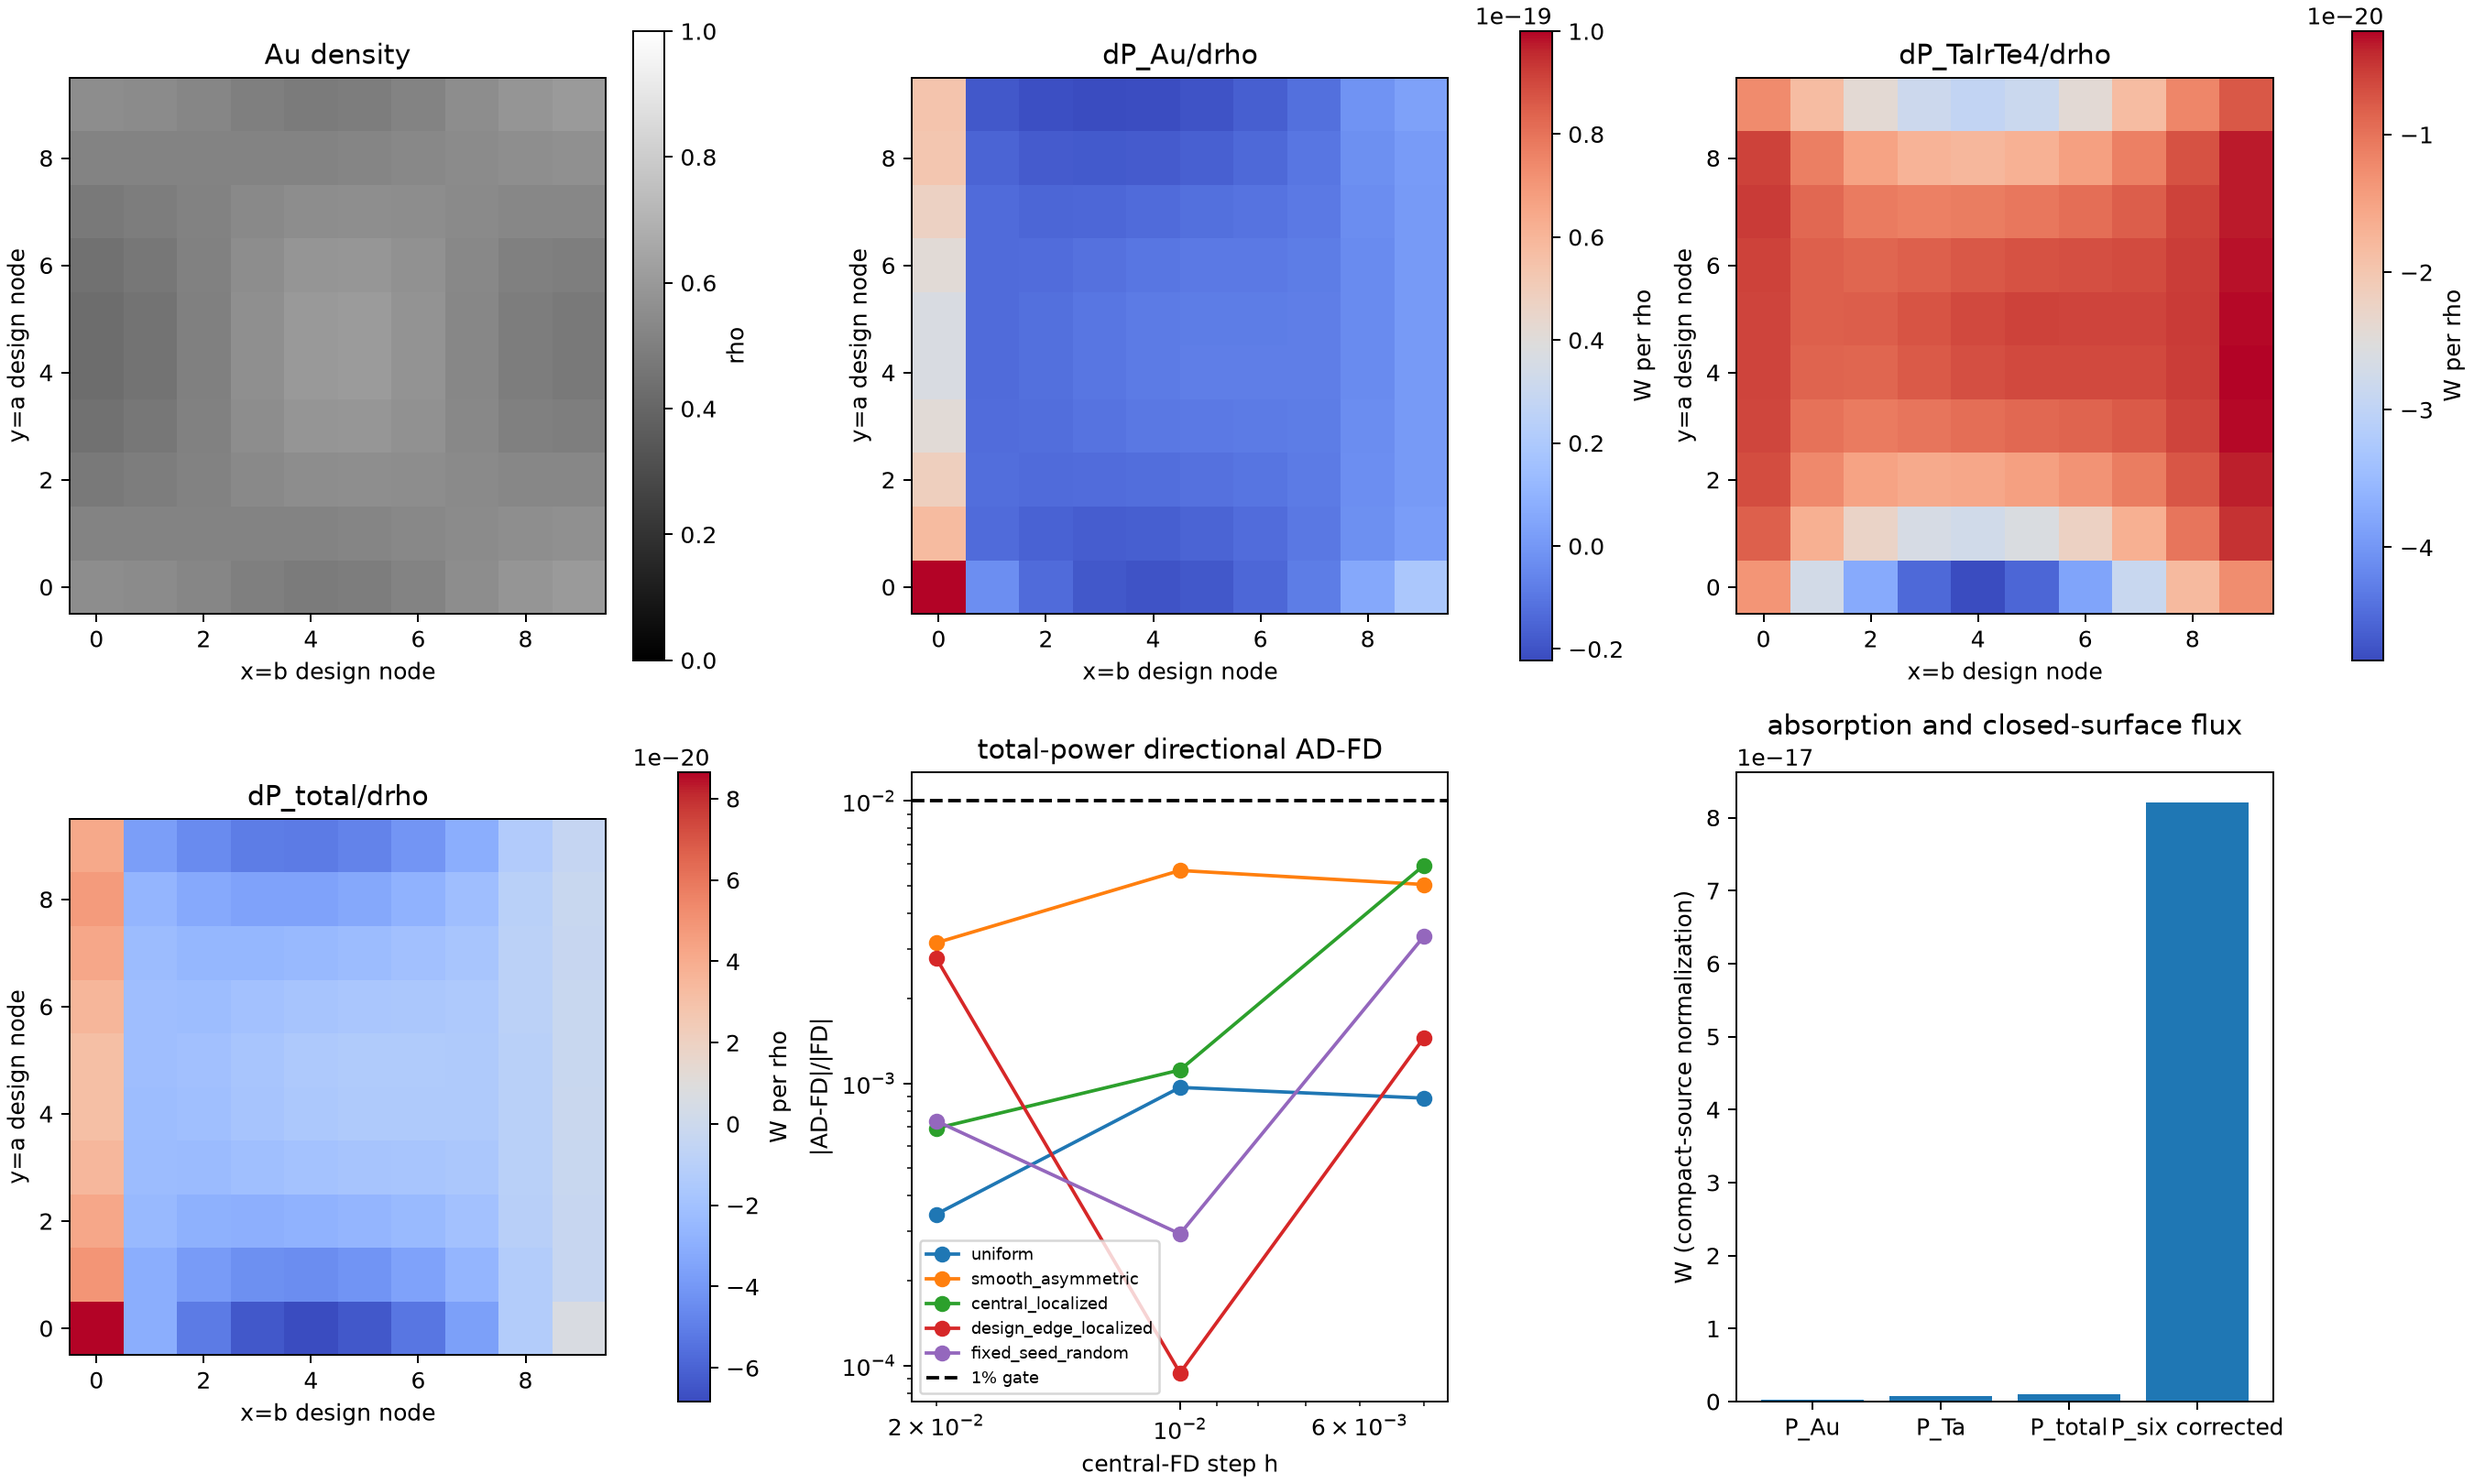
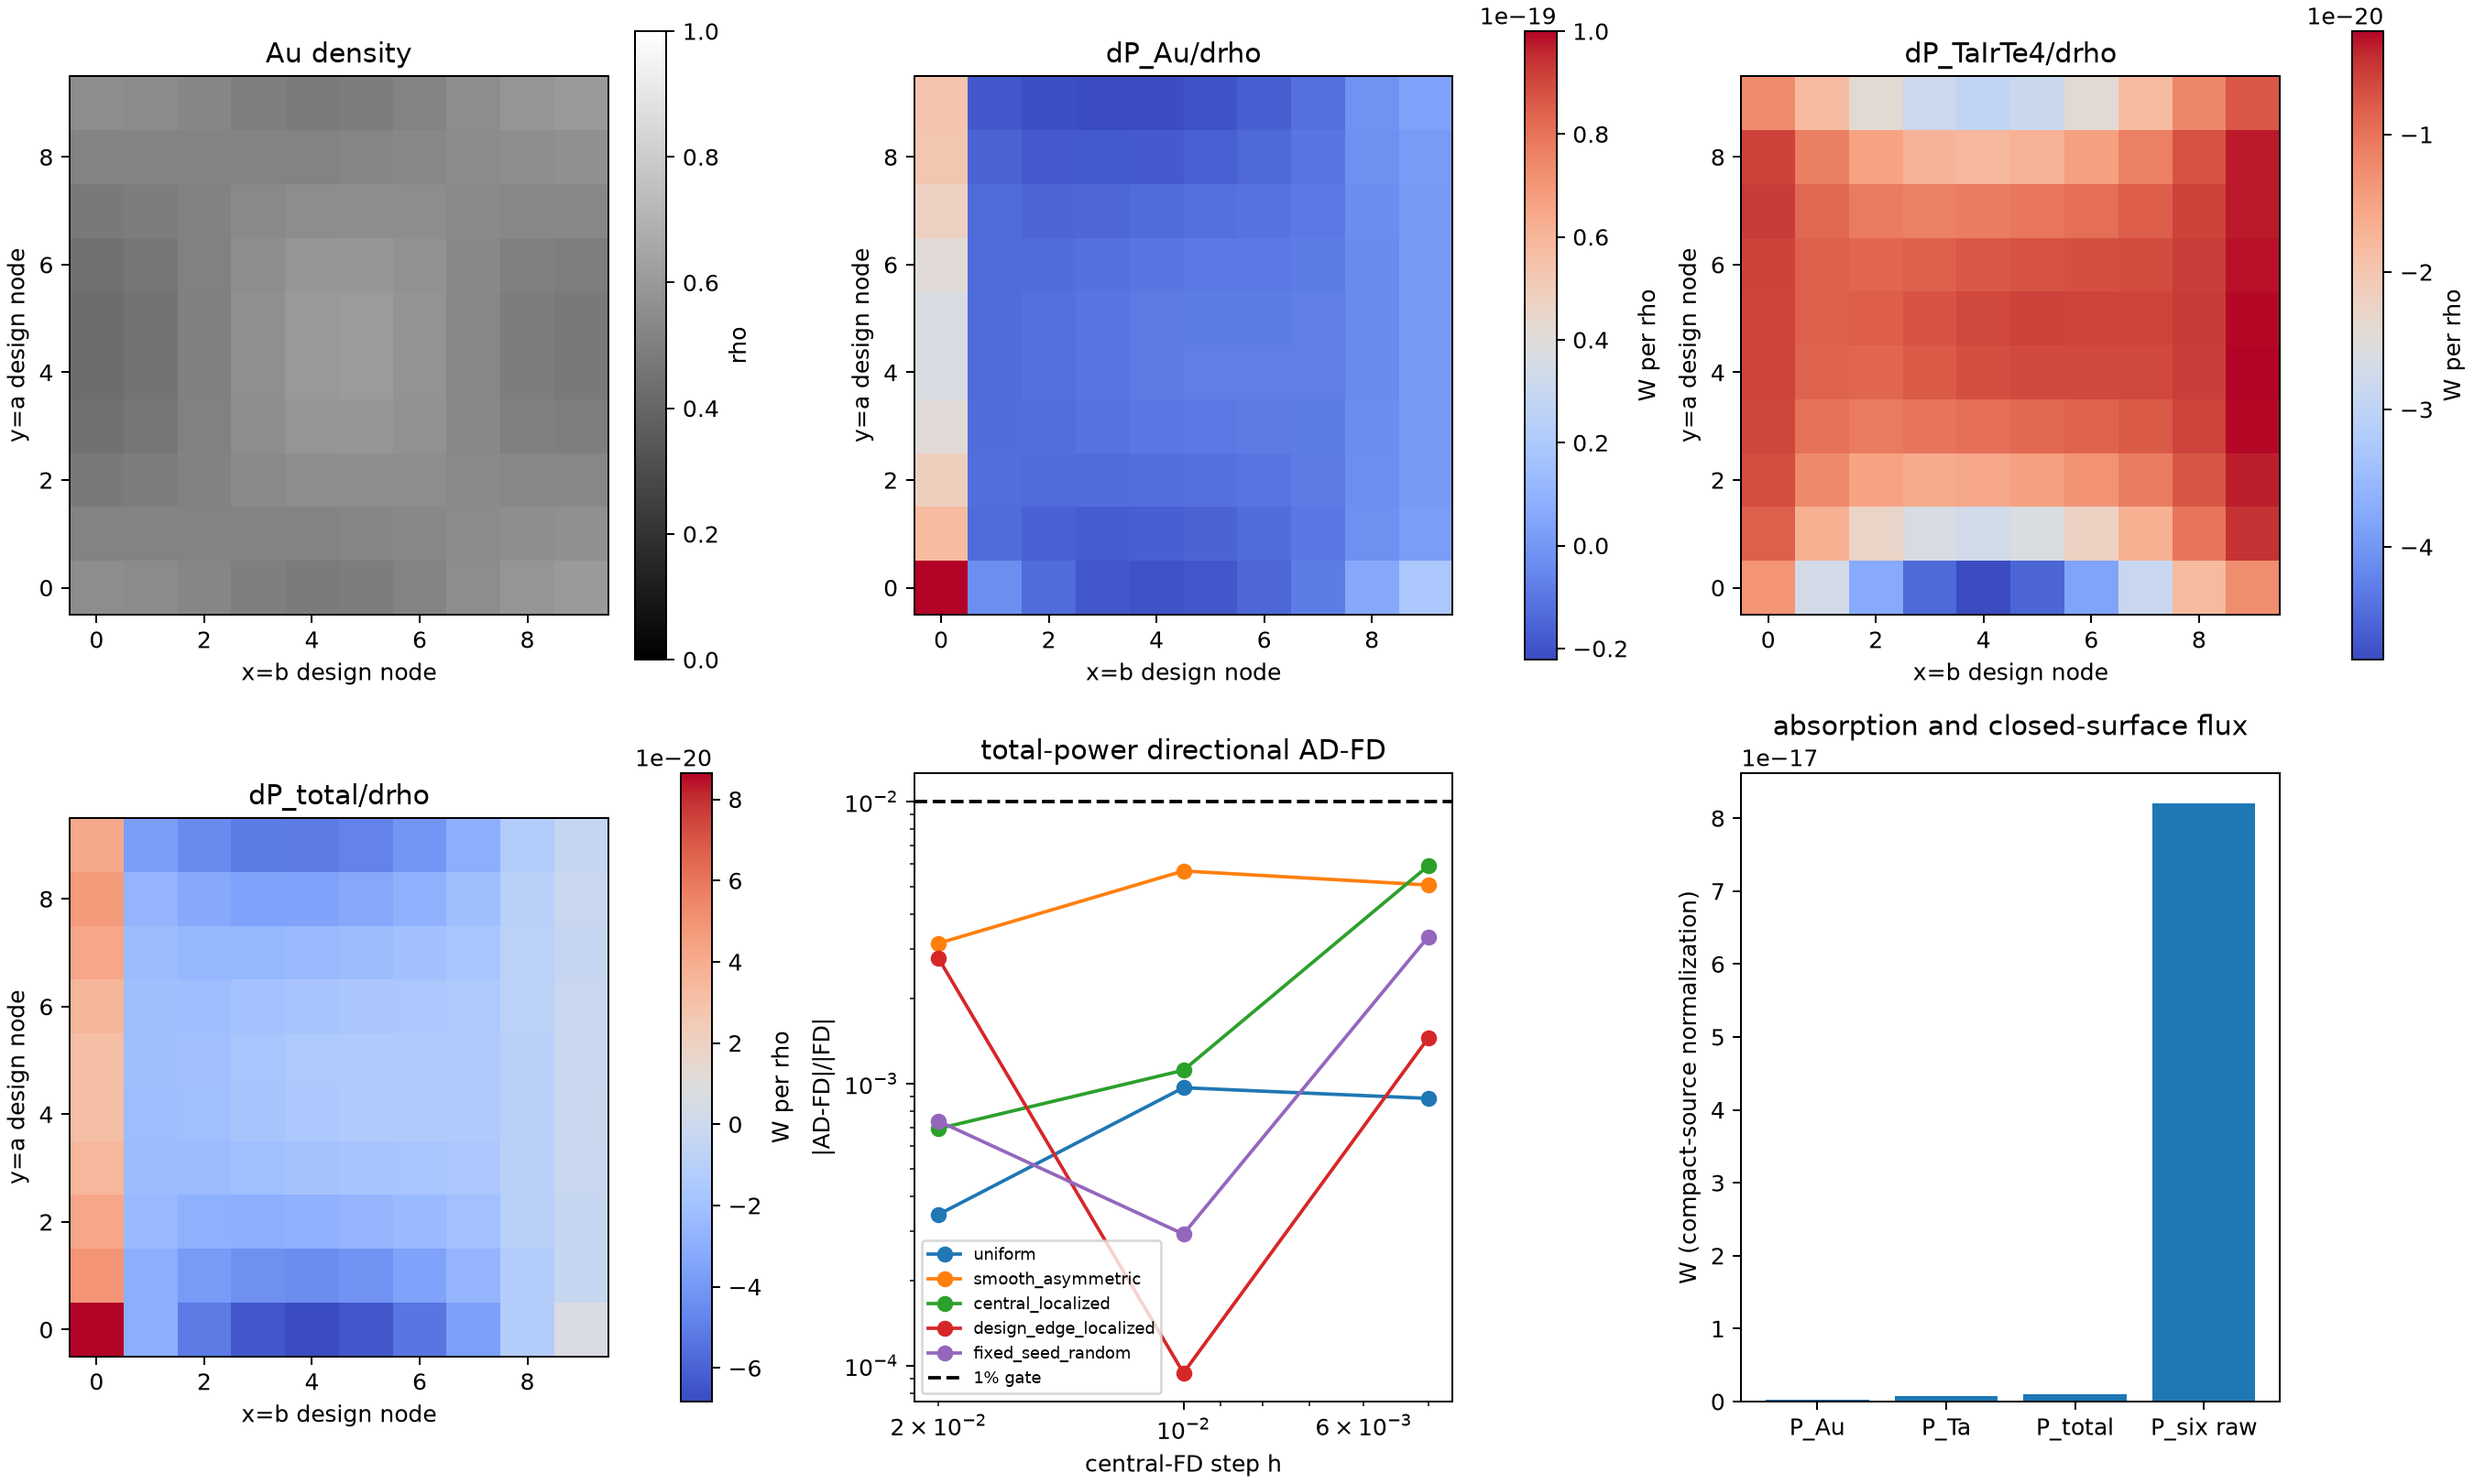
Correct FDTDX empty-air flux units

diff --git a/photothermal_pte/optimization_runs/au_on_fixed_tairte4_validation/45_validate_fdtdx_quasiuniform_au_tairte4_adfd.py b/photothermal_pte/optimization_runs/au_on_fixed_tairte4_validation/45_validate_fdtdx_quasiuniform_au_tairte4_adfd.py
@@ -418,11 +418,11 @@ def run_bridge(output_dir: Path, cfg: BridgeConfig, *, forward_only: bool = Fals
     rho0_np = _baseline_density(cfg.design_cells_xyz[0], cfg.design_cells_xyz[1])
     rho0 = jnp.asarray(rho0_np)
 
-    # A zero-coupling ADE probe is retained only as an implementation
-    # diagnostic.  It reuses the material container and therefore is *not* an
-    # independently constructed empty-air simulation.  It must not be used to
-    # repair or promote the closed-surface energy balance.  The pass/fail gate
-    # below consequently uses the raw closed-surface flux.
+    # Run the identical source, detector, grid and PML with every ADE field
+    # coupling set to zero.  EPS_INF is one in both nominal material supports,
+    # so this is an optically exact empty-air control on the same layout.  It
+    # is reported as a signed diagnostic; raw and background-subtracted
+    # closure must both remain visible and no result is rescaled.
     windows_jit = jax.jit(solve_windows).lower(rho0).compile()
     late_scaled, previous_scaled, p_six_scaled, p_net_down_scaled = windows_jit(rho0)
     late_all_w = np.asarray(late_scaled, dtype=np.float64) * POWER_SCALE_W
@@ -449,8 +449,10 @@ def run_bridge(output_dir: Path, cfg: BridgeConfig, *, forward_only: bool = Fals
     empty_c3 = jnp.zeros_like(fixed_c3)
     empty_flux_jit = jax.jit(solve_empty_flux).lower(empty_c3).compile()
     p_six_empty_scaled, p_net_down_empty_scaled = empty_flux_jit(empty_c3)
-    p_six_empty_w = float(p_six_empty_scaled) * POWER_SCALE_W
-    p_net_down_empty_w = float(p_net_down_empty_scaled) * POWER_SCALE_W
+    # Unlike ``solve_windows``, ``solve_empty_flux`` returns native flux in W
+    # and does not divide by POWER_SCALE_W.  Do not scale it a second time.
+    p_six_empty_w = float(p_six_empty_scaled)
+    p_net_down_empty_w = float(p_net_down_empty_scaled)
     p_six_corrected_w = p_six_raw_w - p_six_empty_w
     raw_closure_relative_error = abs(late_all_w[2] - p_six_raw_w) / max(abs(p_six_raw_w), 1e-300)
     closure_relative_error = abs(late_all_w[2] - p_six_corrected_w) / max(
@@ -478,16 +480,16 @@ def run_bridge(output_dir: Path, cfg: BridgeConfig, *, forward_only: bool = Fals
                 zip(("au", "tairte4", "total"), map(float, window_changes[:3]))
             ),
             "closed_surface_inward_raw_W": p_six_raw_w,
-            "closed_surface_inward_same_container_zero_coupling_probe_W": p_six_empty_w,
-            "closed_surface_inward_raw_minus_probe_W": p_six_corrected_w,
+            "closed_surface_inward_empty_air_W": p_six_empty_w,
+            "closed_surface_inward_material_minus_empty_W": p_six_corrected_w,
             "closed_surface_raw_closure_relative_error": raw_closure_relative_error,
-            "closed_surface_raw_minus_probe_closure_relative_error": closure_relative_error,
+            "closed_surface_background_subtracted_closure_relative_error": closure_relative_error,
             "net_down_material_W": p_net_down_w,
-            "net_down_same_container_zero_coupling_probe_W": p_net_down_empty_w,
+            "net_down_empty_air_W": p_net_down_empty_w,
             "note": (
-                "The zero-coupling value reuses the material container and is not an "
-                "independent empty-air validation. Raw closure remains authoritative; "
-                "no Q clipping, gain, smoothing, or result rescaling."
+                "Exact zero-coupling empty-air control on the same source/grid/PML; "
+                "both raw and signed background-subtracted closure are reported. "
+                "No Q clipping, gain, smoothing, or result rescaling."
             ),
         }
         path = output_dir / "fdtdx_quasiuniform_forward_closure_probe.json"
@@ -585,6 +587,7 @@ def run_bridge(output_dir: Path, cfg: BridgeConfig, *, forward_only: bool = Fals
         and max_finest_strong < 0.01
         and max_finest_gradient_normalized < 0.01
         and raw_closure_relative_error < 0.01
+        and closure_relative_error < 0.01
     )
     status = (
         "VALIDATED_FDTDX_QUASIUNIFORM_AU_TAIRTE4_ADFD_BRIDGE"
@@ -718,12 +721,12 @@ def run_bridge(output_dir: Path, cfg: BridgeConfig, *, forward_only: bool = Fals
             "previous_window_powers_W": dict(zip(observable_names, map(float, previous_all_w[:3]))),
             "window_relative_change": dict(zip(observable_names, map(float, window_changes[:3]))),
             "closed_surface_inward_raw_power_W": p_six_raw_w,
-            "closed_surface_inward_same_container_zero_coupling_probe_W": p_six_empty_w,
-            "closed_surface_inward_raw_minus_probe_W": p_six_corrected_w,
+            "closed_surface_inward_empty_air_power_W": p_six_empty_w,
+            "closed_surface_inward_material_minus_empty_power_W": p_six_corrected_w,
             "closed_surface_raw_closure_relative_error": raw_closure_relative_error,
-            "closed_surface_raw_minus_probe_closure_relative_error": closure_relative_error,
+            "closed_surface_background_subtracted_closure_relative_error": closure_relative_error,
             "net_downward_power_above_structure_W": p_net_down_w,
-            "net_downward_same_container_zero_coupling_probe_W": p_net_down_empty_w,
+            "net_downward_empty_air_power_W": p_net_down_empty_w,
             "gradient_l2_W_per_rho": gradient_l2,
             "gradient_sum_relative_error": gradient_sum_error,
             "max_total_strong_relative_error_finest_step": max_finest_strong,
@@ -738,6 +741,7 @@ def run_bridge(output_dir: Path, cfg: BridgeConfig, *, forward_only: bool = Fals
             "physical_50nm_Au_and_100nm_TaIrTe4": True,
             "observable_window_changes_lt_0p5pct": settled,
             "closed_surface_closure_lt_1pct": raw_closure_relative_error < 0.01,
+            "closed_surface_background_subtracted_closure_lt_1pct": closure_relative_error < 0.01,
             "gradient_component_sum_error_lt_1e-6": gradient_sum_error < 1e-6,
             "total_finest_strong_direction_error_lt_1pct": max_finest_strong < 0.01,
             "total_finest_multidirection_gradient_normalized_error_lt_1pct": (

diff --git a/photothermal_pte/optimization_runs/au_on_fixed_tairte4_validation/47_summarize_fdtdx_quasiuniform_au_tairte4.py b/photothermal_pte/optimization_runs/au_on_fixed_tairte4_validation/47_summarize_fdtdx_quasiuniform_au_tairte4.py
@@ -122,6 +122,8 @@ boundaries in Lumerical.
   the 0.5% gate in the eight-period quick run.
 - The material-loss versus raw closed-surface flux mismatch is
   `{100.0 * bridge['results']['closed_surface_raw_closure_relative_error']:.6f}%`.
+- The signed material-minus-empty closed-surface mismatch is
+  `{100.0 * bridge['results']['closed_surface_background_subtracted_closure_relative_error']:.6f}%`.
 - In the independent source-only control, compact-Gaussian closed-box residuals
   are `{gaussian_compact['+']:.4f}%` (`+z`) and
   `{gaussian_compact['-']:.4f}%` (`-z`); enlarging the box gives
@@ -131,7 +133,11 @@ boundaries in Lumerical.
 Therefore the source direction is not the failure.  The unresolved item is the
 finite-Gaussian closed-surface flux/collocation audit in this compact FDTDX
 configuration.  The same-container zero-coupling ADE probe is **not** an
-independent empty-air run and is not used to repair the closure gate.
+empirical correction: because every nominal material support has
+`epsilon_inf=1` and all ADE field couplings are zeroed, it is an exact
+empty-air optical control on the identical source/grid/PML layout.  Its flux
+was already in watts; the earlier extra `1e-24` postprocessing factor has been
+removed.  Both raw and background-subtracted closure still fail.
 
 ## Decision
 

diff --git a/photothermal_pte/optimization_runs/au_on_fixed_tairte4_validation/results_fdtdx_quasiuniform_bridge/FDTDX_QUASIUNIFORM_AU_TAIRTE4_VALIDATION_REPORT.md b/photothermal_pte/optimization_runs/au_on_fixed_tairte4_validation/results_fdtdx_quasiuniform_bridge/FDTDX_QUASIUNIFORM_AU_TAIRTE4_VALIDATION_REPORT.md
@@ -56,6 +56,8 @@ boundaries in Lumerical.
   the 0.5% gate in the eight-period quick run.
 - The material-loss versus raw closed-surface flux mismatch is
   `98.738720%`.
+- The signed material-minus-empty closed-surface mismatch is
+  `98.959501%`.
 - In the independent source-only control, compact-Gaussian closed-box residuals
   are `3.1262%` (`+z`) and
   `4.2523%` (`-z`); enlarging the box gives
@@ -65,7 +67,11 @@ boundaries in Lumerical.
 Therefore the source direction is not the failure.  The unresolved item is the
 finite-Gaussian closed-surface flux/collocation audit in this compact FDTDX
 configuration.  The same-container zero-coupling ADE probe is **not** an
-independent empty-air run and is not used to repair the closure gate.
+empirical correction: because every nominal material support has
+`epsilon_inf=1` and all ADE field couplings are zeroed, it is an exact
+empty-air optical control on the identical source/grid/PML layout.  Its flux
+was already in watts; the earlier extra `1e-24` postprocessing factor has been
+removed.  Both raw and background-subtracted closure still fail.
 
 ## Decision
 
